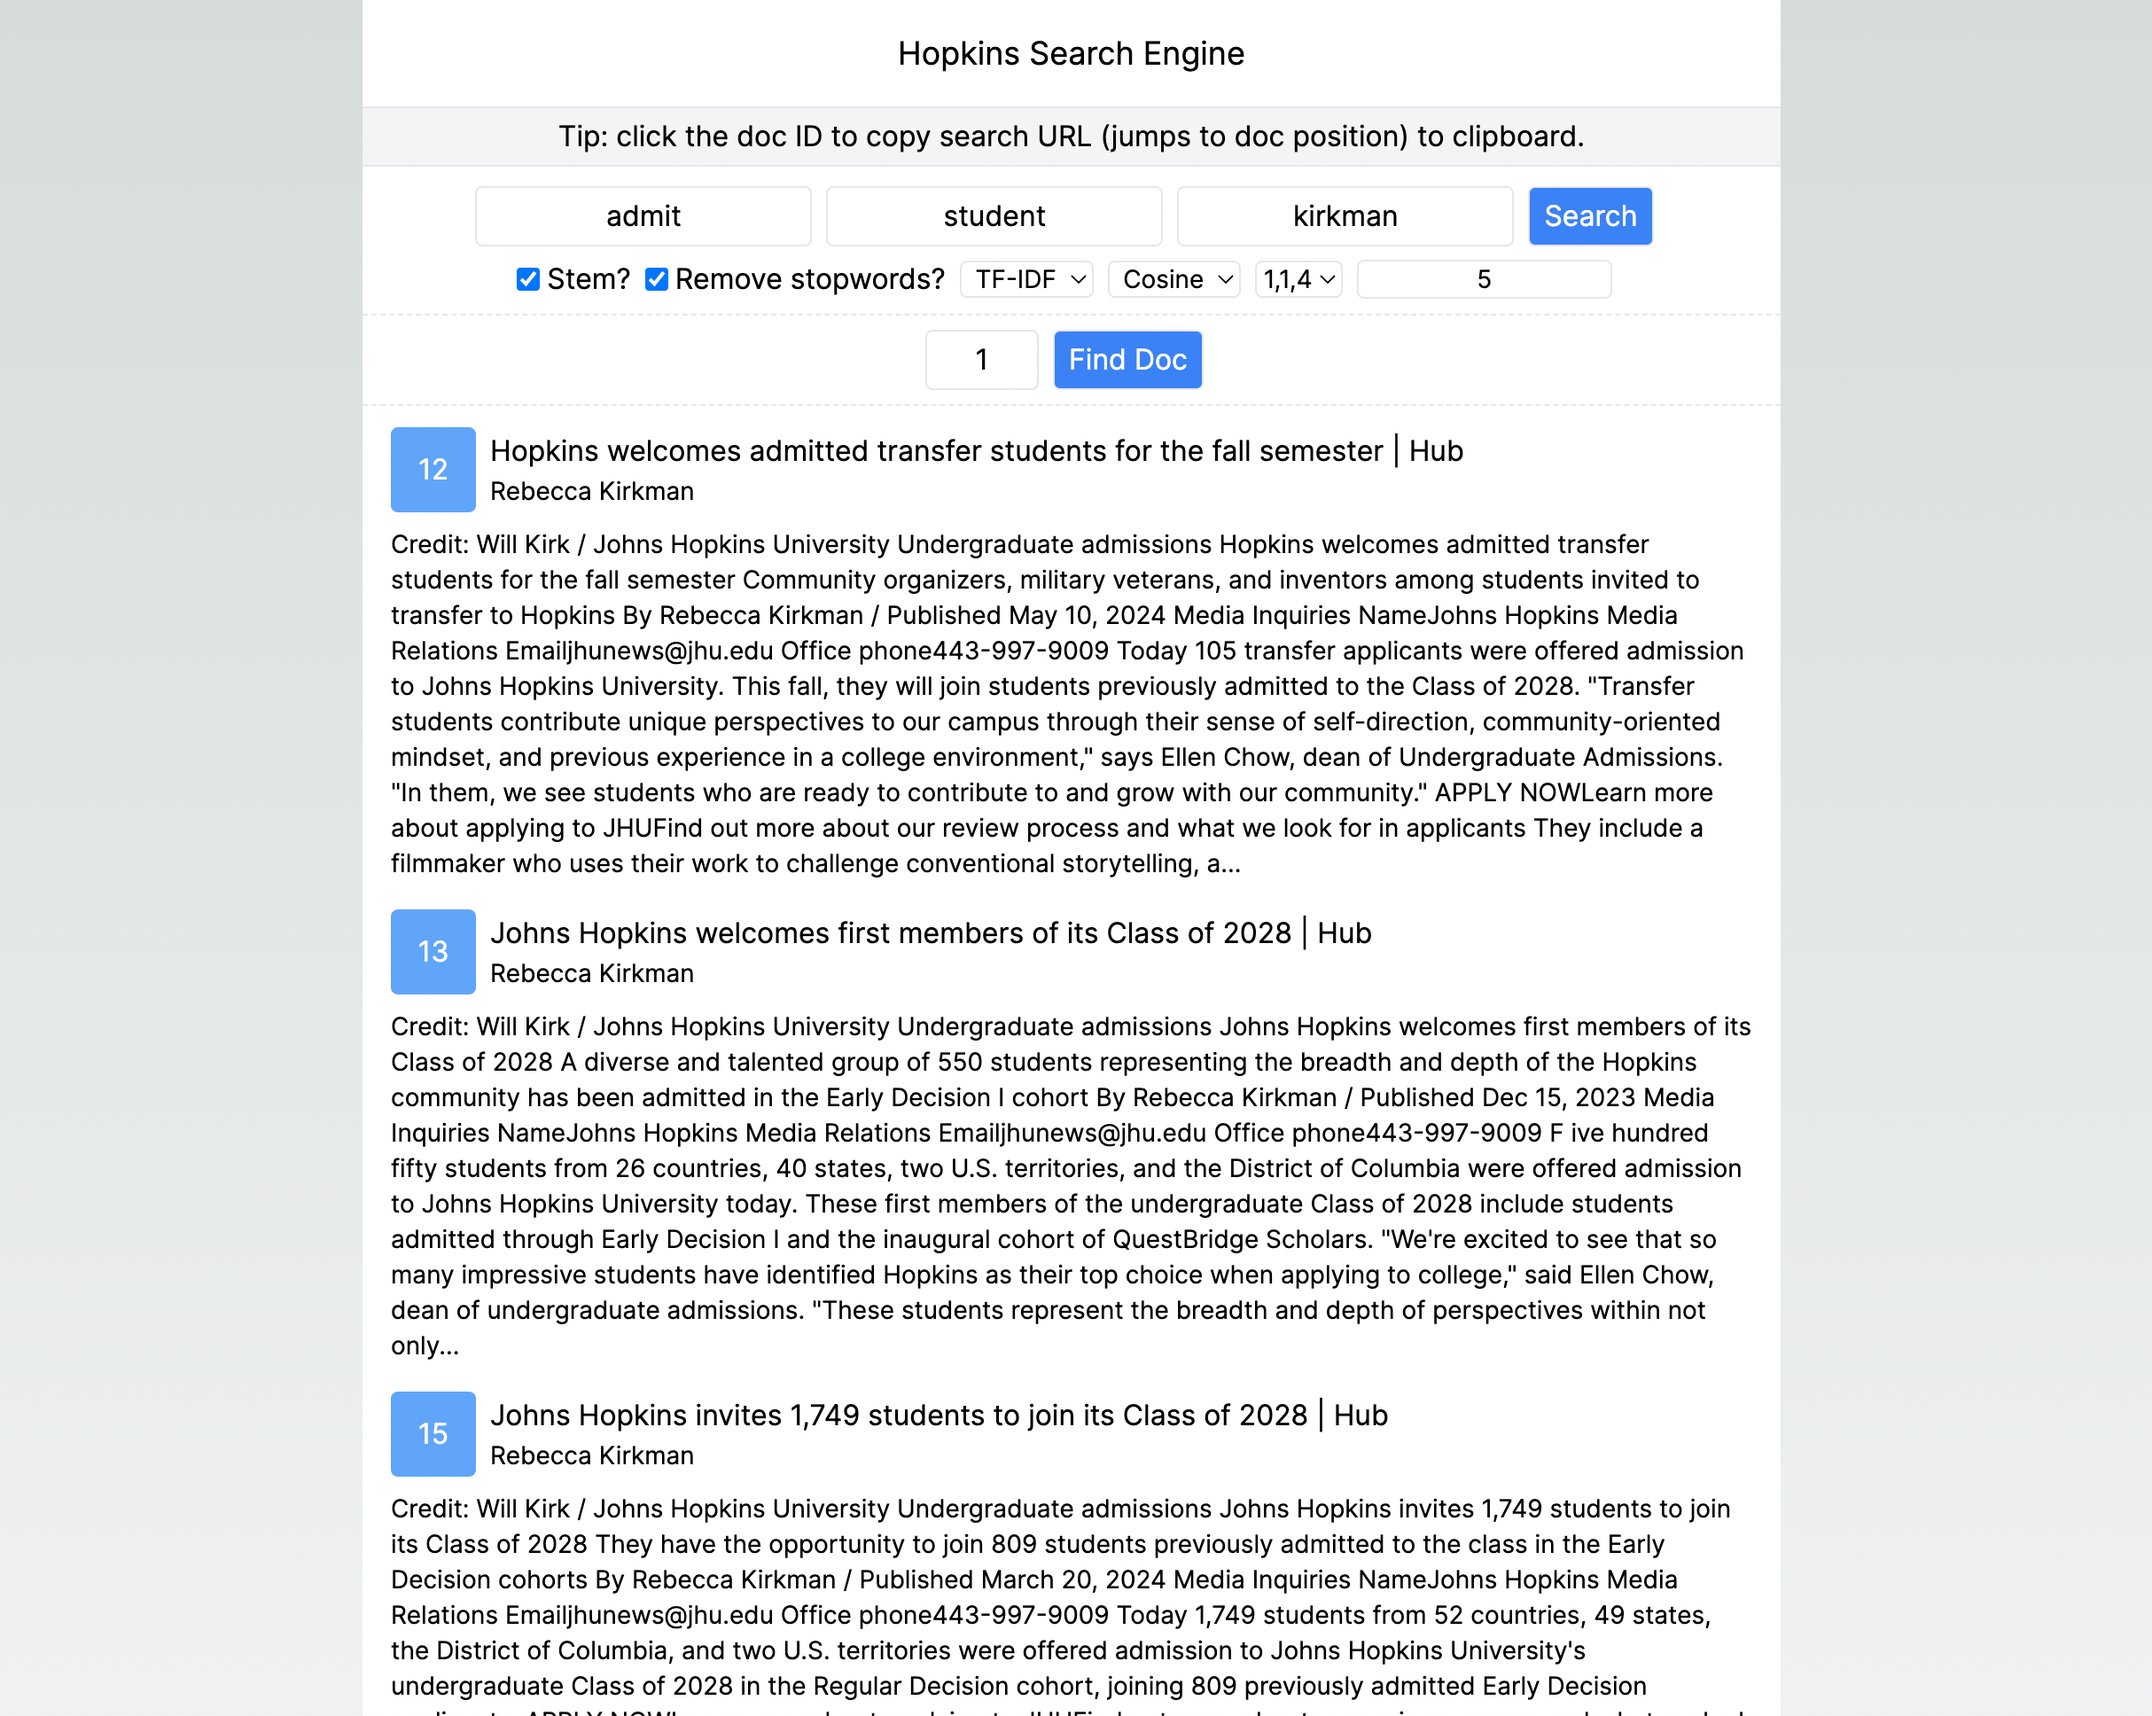
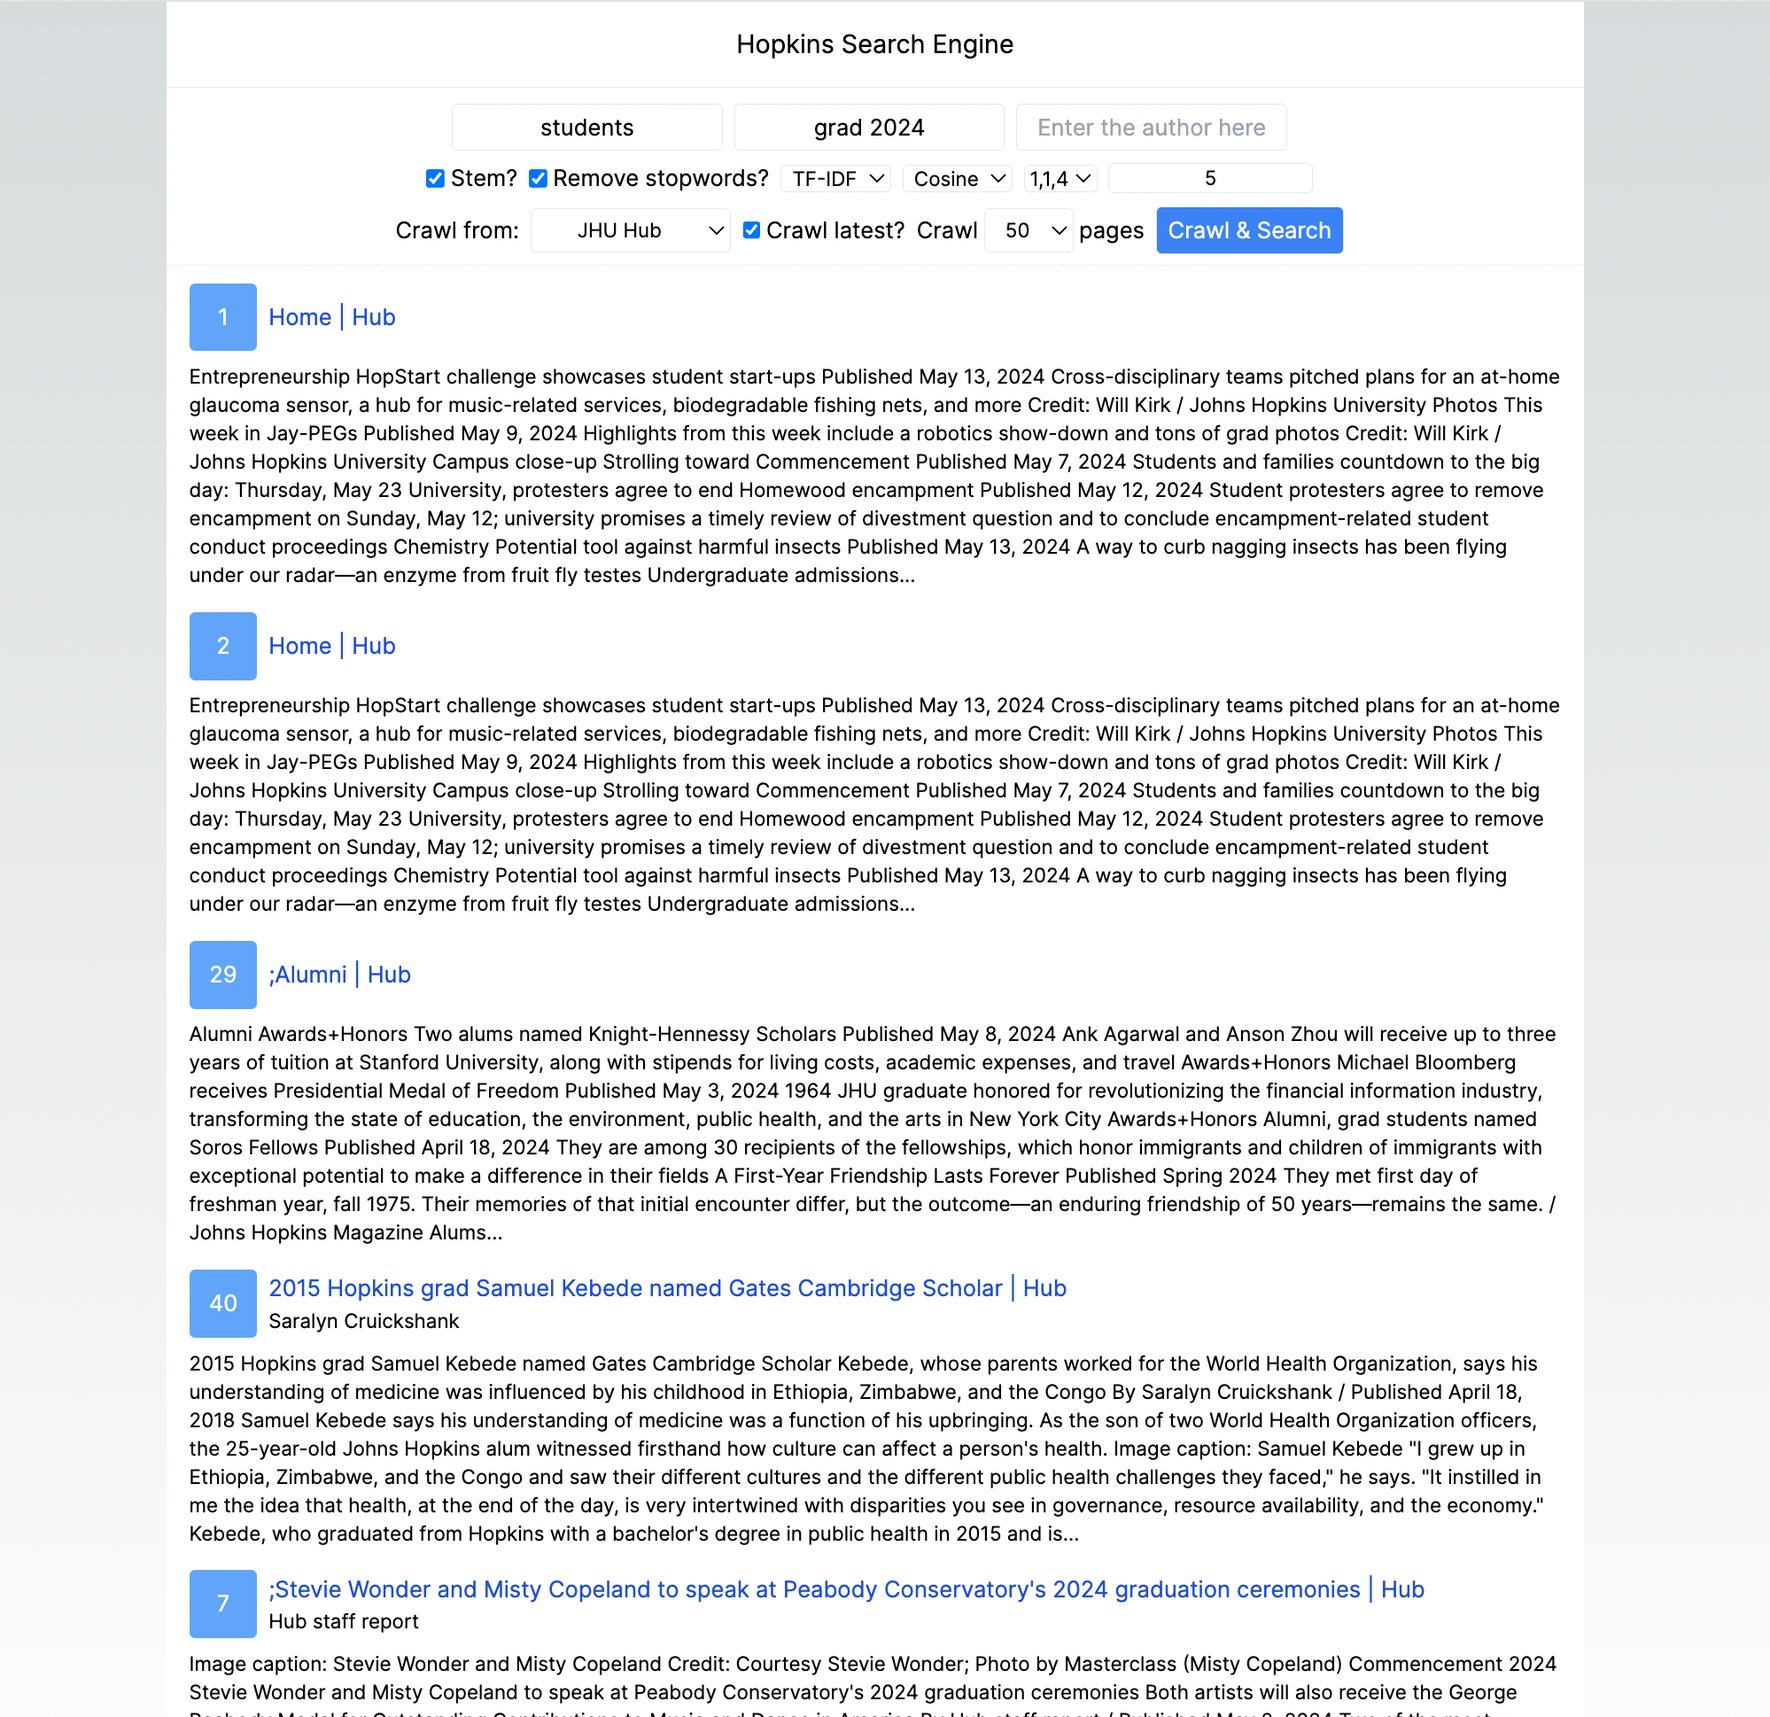
Allow ad-hoc crawling on web app

Changed region(s): [[0.0931, 0.0, 0.8999, 1.0]]

diff --git a/jhu-search-engine/src/pages/index.js b/jhu-search-engine/src/pages/index.js
@@ -9,6 +9,8 @@ export default function Home() {
   const params = useSearchParams();
   const router = useRouter();
 
+  const [loading, setLoading] = useState(false);
+
   const [title, setTitle] = useState("");
   const [query, setQuery] = useState("");
   const [author, setAuthor] = useState("");
@@ -17,9 +19,12 @@ export default function Home() {
   const [weighting, setWeighting] = useState("tfidf");
   const [similarity, setSimilarity] = useState("cosine");
   const [weights, setWeights] = useState("114");
+  const [domain, setDomain] = useState("hub.jhu.edu");
+  const [customDomain, setCustomDomain] = useState("");
+  const [online, setOnline] = useState(false);
+  const [numPages, setNumPages] = useState(100);
 
   const [numDocs, setNumDocs] = useState(5);
-  const [docId, setDocId] = useState("");
 
   const [docs, setDocs] = useState([]);
 
@@ -32,21 +37,27 @@ export default function Home() {
     weighting,
     similarity,
     weights,
-    numDocs
+    numDocs,
+    domain,
+    online,
+    numPages,
+    customDomain
   ) => {
+    setLoading(true);
     fetch(
-      `http://127.0.0.1:5000/search?title=${title}&query=${query}&author=${author}&stem=${stem}&remove=${removestop}&weighting=${weighting}&similarity=${similarity}&weights=${weights}&count=${numDocs}`
+      `http://127.0.0.1:5000/search?title=${title}&query=${query}&author=${author}&stem=${stem}&remove=${removestop}&weighting=${weighting}&similarity=${similarity}&weights=${weights}&count=${numDocs}&domain=${
+        domain === "custom" ? customDomain : domain
+      }&online=${online}&numPages=${numPages}`
     )
-      .then((response) => response.json())
+      .then((response) => {
+        setLoading(false);
+        return response.json();
+      })
       .then(setDocs)
-      .catch((error) => console.error(error));
-  };
-
-  const handleFindDoc = (docId) => {
-    fetch(`http://127.0.0.1:5000/doc?id=${docId}`)
-      .then((response) => response.json())
-      .then(setDocs)
-      .catch((error) => console.error(error));
+      .catch((error) => {
+        setLoading(false);
+        console.error(error);
+      });
   };
 
   const scrolltoHash = (id) => {
@@ -70,6 +81,7 @@ export default function Home() {
       const similarity = params.get("similarity") || "cosine";
       const weights = params.get("weights") || "1341";
       const numDocs = params.get("count") || "5";
+      const domain = params.get("domain") || "hub.jhu.edu";
 
       if (title) setTitle(title);
       if (query) setQuery(query);
@@ -80,6 +92,7 @@ export default function Home() {
       if (similarity) setSimilarity(similarity);
       if (weights) setWeights(weights);
       if (numDocs) setNumDocs(numDocs);
+      if (domain) setDomain(domain);
 
       handleSearch(
         title,
@@ -90,17 +103,9 @@ export default function Home() {
         weighting,
         similarity,
         weights,
-        numDocs
+        numDocs,
+        domain
       );
-    }
-  }, [params]);
-
-  useEffect(() => {
-    if (params.size === 0 && window.location.hash !== "") {
-      const docId = window.location.hash.slice(1);
-      setDocId(docId);
-      handleFindDoc(docId);
-      scrolltoHash(docId);
     }
   }, [params]);
 
@@ -110,17 +115,13 @@ export default function Home() {
 
   return (
     <main className={`flex justify-center min-h-screen ${inter.className}`}>
-      <div className="bg-white w-[800px]">
+      <div className="bg-white w-[1000px]">
         <h1
           className="py-4 text-lg text-center border-b hover:cursor-pointer"
           onClick={() => router.push("/")}
         >
           Hopkins Search Engine
         </h1>
-        <h2 className="py-1 text-center bg-gray-100 border-b">
-          Tip: click the doc ID to copy search URL (jumps to doc position) to
-          clipboard.
-        </h2>
         <div className="flex items-center justify-center h-12 mt-1">
           <input
             type="text"
@@ -143,26 +144,8 @@ export default function Home() {
             onChange={(e) => setAuthor(e.target.value)}
             className="p-1 mr-2 text-center border rounded"
           />
-          <button
-            onClick={() =>
-              handleSearch(
-                title,
-                query,
-                author,
-                stem,
-                removestop,
-                weighting,
-                similarity,
-                weights,
-                numDocs
-              )
-            }
-            className="px-2 py-1 mr-2 text-center text-white transition bg-blue-500 border rounded hover:bg-blue-700 hover:text-white"
-          >
-            Search
-          </button>
         </div>
-        <div className="flex items-center justify-center h-8 pb-2 border-b border-dashed">
+        <div className="flex items-center justify-center h-8 pb-2">
           <input
             type="checkbox"
             name="stem"
@@ -218,20 +201,84 @@ export default function Home() {
             className="mr-2 text-sm text-center border rounded w-36"
           />
         </div>
-        <div className="flex justify-center py-2 border-b border-dashed">
-          <input
-            type="text"
-            placeholder="Doc ID"
-            value={docId}
-            onChange={(e) => setDocId(e.target.value)}
-            className="w-16 p-1 mr-2 text-center border rounded"
-          />
-          <button
-            onClick={() => handleFindDoc(docId)}
-            className="px-2 py-1 mr-2 text-center text-white transition bg-blue-500 border rounded hover:bg-blue-700 hover:text-white"
+        <div className="flex items-center justify-center pb-2 border-b border-dashed">
+          <label className="mr-2">Crawl from:</label>
+          <select
+            name="domain"
+            value={domain}
+            onChange={(e) => setDomain(e.target.value)}
+            className="p-1.5 mr-2 text-sm text-center border rounded"
           >
-            Find Doc
-          </button>
+            <option value="hub.jhu.edu">JHU Hub</option>
+            <option value="jhunewsletter.com">JHU Newsletter</option>
+            <option value="custom">Custom</option>
+          </select>
+          {domain === "custom" ? (
+            <input
+              type="text"
+              onChange={(e) => setCustomDomain(e.target.value)}
+              className="w-24 p-1.5 mr-2 text-sm text-center border rounded"
+            />
+          ) : null}
+          <input
+            type="checkbox"
+            name="online"
+            checked={online}
+            onChange={(e) => setOnline(e.target.checked)}
+            className="mr-1"
+          />
+          <label className="mr-2">Crawl latest?</label>
+          <label className="mr-1">Crawl</label>
+          <select
+            name="numPages"
+            value={numPages}
+            onChange={(e) => setNumPages(e.target.value)}
+            className="p-1.5 mr-1 text-sm text-center border rounded"
+          >
+            <option value={25}>25</option>
+            <option value={50}>50</option>
+            <option value={100}>100</option>
+            <option value={150}>150</option>
+            <option value={200}>200</option>
+            <option value={250}>250</option>
+            <option value={300}>300</option>
+            <option value={350}>350</option>
+            <option value={400}>400</option>
+            <option value={450}>450</option>
+            <option value={500}>500</option>
+          </select>
+          <label className="mr-2">pages</label>
+          {loading ? (
+            <button
+              disabled
+              className="px-2 py-1 mr-2 text-center text-white bg-blue-400 border rounded"
+            >
+              Loading...
+            </button>
+          ) : (
+            <button
+              onClick={() =>
+                handleSearch(
+                  title,
+                  query,
+                  author,
+                  stem,
+                  removestop,
+                  weighting,
+                  similarity,
+                  weights,
+                  numDocs,
+                  domain,
+                  online,
+                  numPages,
+                  customDomain
+                )
+              }
+              className="px-2 py-1 mr-2 text-center text-white transition bg-blue-500 border rounded hover:bg-blue-700 "
+            >
+              Crawl & Search
+            </button>
+          )}
         </div>
         <div className="mt-1">
           {docs.map((doc) => (

diff --git a/query.py b/query.py
@@ -8,6 +8,7 @@ from numpy.linalg import norm
 from nltk.stem.snowball import SnowballStemmer
 from nltk.tokenize import word_tokenize
 from math import log2
+from webCrawl import run
 # import nltk
 # nltk.download('punkt')
 
@@ -301,7 +302,7 @@ def search(docs, doc_vectors, query_vec, sim, count):
             for doc in docs]
 
 
-def process_query(T = "", W="news-letter", A="", stem = True, removestop = True, weighting = "tfidf", similarity = "cosine", weights = "114", count = 5):
+def process_query(T = "", W="news-letter", A="", stem = True, removestop = True, weighting = "tfidf", similarity = "cosine", weights = "114", count = 5, domain = "hub.jhu.edu", online = False, numPages = 100):
     title = []
     for word in word_tokenize(T):
         title.append(word.lower())
@@ -316,8 +317,12 @@ def process_query(T = "", W="news-letter", A="", stem = True, removestop = True,
 
     query = Document(0, "", title, author, body)
 
-    docs = read_docs(crawled_data_file)
-    docs_intact = read_docs_intact(crawled_data_file)
+    if online:
+        run(domain, max_pages=numPages)
+
+    data_file_name = domain + (".online" if online else "") + ".txt"
+    docs = read_docs(data_file_name)
+    docs_intact = read_docs_intact(data_file_name)
 
     global num_docs
     num_docs = len(docs)

diff --git a/webCrawl.py b/webCrawl.py
@@ -9,7 +9,6 @@ from urllib import parse, request
 logging.basicConfig(level=logging.DEBUG, filename='output.log', filemode='w')
 visitlog = logging.getLogger('visited')
 extractlog = logging.getLogger('extracted')
-output_file = 'extracted_jhu.txt'
 
 
 def parse_links(root, html):
@@ -189,6 +188,8 @@ def writelines(filename, data):
 
 
 def run(site, wanted_content=[], within_domain=True, limit_words=150, max_pages=1500):
+    output_file = site + ".online.txt"
+
     if os.path.exists(output_file):
         os.remove(output_file)
  
@@ -198,8 +199,8 @@ def run(site, wanted_content=[], within_domain=True, limit_words=150, max_pages=
     # nonlocal_links = get_nonlocal_links(site)
     # writelines('nonlocal.txt', nonlocal_links)
 
-    visited, extracted = crawl(site, wanted_content, within_domain, limit_words, max_pages)
-    #writelines('visited.txt', visited)
+    _, extracted = crawl("https://" + site, wanted_content, within_domain, limit_words, max_pages)
+    # writelines('visited.txt', visited)
     writelines(output_file, extracted)
 
 def main():

diff --git a/app.py b/app.py
@@ -21,15 +21,12 @@ def search():
   weights = request.args.get("weights")
   count = request.args.get("count")
   count = -1 if count == "" else int(count)
+  domain = request.args.get("domain")
+  online = True if request.args.get("online") == "true" else False
+  numPages = 100
+  numPages = request.args.get("numPages")
+  numPages = -1 if numPages == "" else int(numPages)
 
-  docs = process_query(title, query, author, stem, removestop, weighting, similarity, weights, count)
-
-  return jsonify(docs)
-
-@app.route("/doc", methods=["GET"])
-def doc():
-  id = request.args.get("id")
-
-  docs = get_doc(int(id))
+  docs = process_query(title, query, author, stem, removestop, weighting, similarity, weights, count, domain, online, numPages)
 
   return jsonify(docs)

diff --git a/README.md b/README.md
@@ -15,7 +15,7 @@ the [official docs](https://flask.palletsprojects.com/en/3.0.x/installation).
 ```bash
 python3 -m venv .venv
 . .venv/bin/activate
-pip install flask flask-cors numpy nltk
+pip install flask flask-cors numpy nltk bs4
 ```
 
 In the venv, run the following command to start the Flask server:
